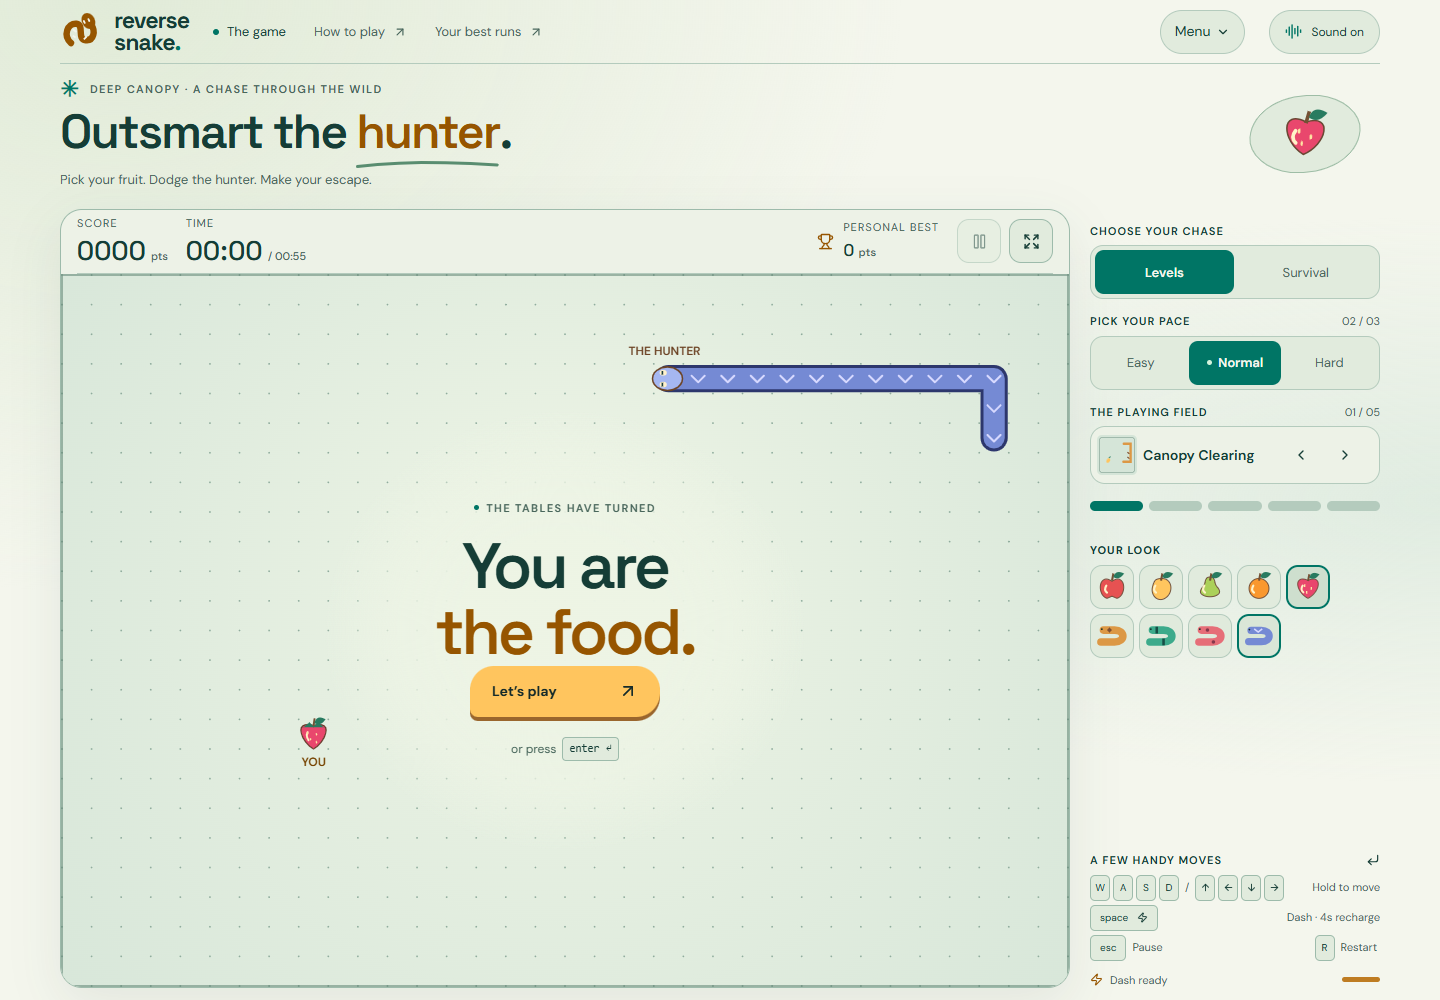
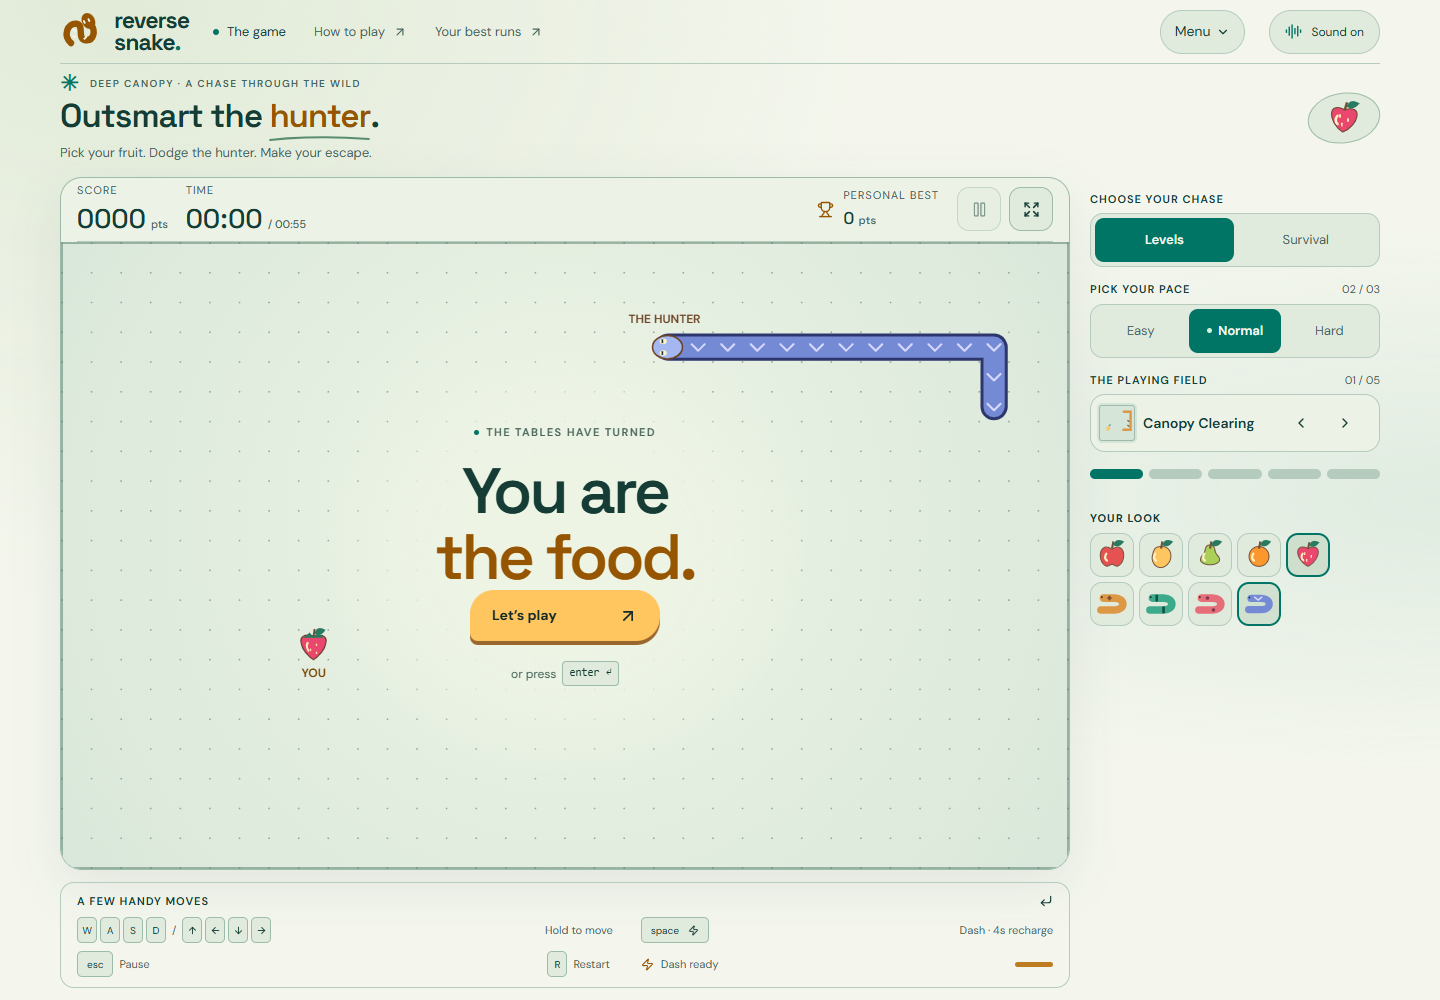
Place keyboard guide beneath the map and compact the hero

diff --git a/web/src/components/reverse-snake.tsx b/web/src/components/reverse-snake.tsx
@@ -121,12 +121,13 @@ export default function ReverseSnake() {
     </header>
 
     <main className="site-main">
-      <section className="hero" aria-labelledby="hero-title">
+      <section className="hero game-hero" aria-labelledby="hero-title">
         <div><div className="hero-eyebrow"><span className="little-star">✳</span> DEEP CANOPY · A CHASE THROUGH THE WILD</div><h1 id="hero-title">Outsmart the <span>hunter<svg viewBox="0 0 290 14" fill="none" aria-hidden="true"><path d="M3 10C77 1 184 0 286 7" stroke="currentColor" strokeWidth="6" strokeLinecap="round"/></svg></span>.</h1><p>Pick your fruit. Dodge the hunter. Make your escape.</p></div>
         <div className="hero-sticker" aria-hidden="true"><FruitIcon skin={game.appearance.fruit}/></div>
       </section>
 
       <div className="play-layout" id="play">
+        <div className="game-column">
         <section className="arcade" ref={arcadeRef} aria-label="Reverse Snake arcade">
           <div className="game-hud">
             <div className="hud-stat"><span>SCORE</span><strong>{Math.floor(game.score).toString().padStart(4, "0")}<small>pts</small></strong></div>
@@ -158,13 +159,15 @@ export default function ReverseSnake() {
           <div className="touch-controls" aria-label="Touch game controls"><div className="d-pad">{([['up', ArrowUp], ['left', ArrowLeft], ['down', ArrowDown], ['right', ArrowRight]] as const).map(([direction, Icon]) => <button key={direction} className={`direction-${direction}`} disabled={game.phase !== "running"} aria-label={`Move ${direction}`} onPointerDown={event => { event.preventDefault(); event.currentTarget.setPointerCapture(event.pointerId); pressInput(`pointer:${event.pointerId}`, direction); focusGame(); }} onPointerUp={event => releaseInput(`pointer:${event.pointerId}`)} onPointerCancel={event => releaseInput(`pointer:${event.pointerId}`, true)} onLostPointerCapture={event => releaseInput(`pointer:${event.pointerId}`, true)} onClick={event => { if (event.detail === 0) { steer(direction); directionRef.current = input.current.direction; focusGame(); } }}><Icon size={20}/></button>)}</div><button className="touch-dash" disabled={game.phase !== "running" || game.dashCooldown > 0} onClick={() => { dash(); focusGame(); }}><Zap size={20}/>{game.dashCooldown > 0 ? `${(game.dashCooldown / 1000).toFixed(1)}s` : "Dash"}</button></div>
         </section>
 
-        <aside className="game-sidebar" aria-label="Game setup and controls">
+          <section className="controls-section" aria-label="Keyboard controls"><div className="section-label"><h3>A FEW HANDY MOVES</h3><CornerDownLeft size={14}/></div><div className="control-row"><div className="key-group"><kbd>W</kbd><kbd>A</kbd><kbd>S</kbd><kbd>D</kbd><span>/</span><kbd><ArrowUp size={11}/></kbd><kbd><ArrowLeft size={11}/></kbd><kbd><ArrowDown size={11}/></kbd><kbd><ArrowRight size={11}/></kbd></div><span>Hold to move</span></div><div className="control-row"><kbd className="wide-key">space <Zap size={11}/></kbd><span>Dash <small>· 4s recharge</small></span></div><div className="control-row"><div className="key-group"><kbd className="wide-key">esc</kbd><span>Pause</span></div><div className="key-group"><kbd>R</kbd><span>Restart</span></div></div><div className={`dash-meter ${game.dashCooldown === 0 ? "charged" : ""}`}><Zap size={13}/><span>{game.dashCooldown === 0 ? "Dash ready" : "Recharging"}</span><div><i style={{ width: `${100 - (game.dashCooldown / DASH_COOLDOWN) * 100}%` }}/></div></div></section>
+        </div>
+
+        <aside className="game-sidebar" aria-label="Game setup">
           <section className="mission-card"><div className="eyebrow"><span className="mini-cross">+</span> YOUR ONE JOB</div><h2>Be the one<br/>that got away.</h2><p>{game.mode === "survival" ? "Stay alive as long as you can. Every crash brings a fresh hunter. There’s always another chase." : "Bait the snake into a wall or its own tail. Outsmart it, or outlast its appetite."}</p><div className="mission-rule"><span className="apple-dot"/>You’re the fruit.<span className="snake-dot"/>It’s the problem.</div><ArrowDownLeft className="mission-arrow" size={36} strokeWidth={1.2}/></section>
           <section className="mode-section"><div className="section-label"><h3>CHOOSE YOUR CHASE</h3></div><div className="difficulty-options" aria-label="Game mode"><button disabled={active} aria-pressed={game.mode === "levels"} onClick={() => configure(game.arena, game.difficulty, "levels")}>Levels</button><button disabled={active} aria-pressed={game.mode === "survival"} onClick={() => configure(game.arena, game.difficulty, "survival")}>Survival</button></div></section>
           <section className="difficulty-section"><div className="section-label"><h3>PICK YOUR PACE</h3><span>0{(['easy', 'normal', 'hard'] as Difficulty[]).indexOf(game.difficulty) + 1} / 03</span></div><div className="difficulty-options" aria-label="Difficulty">{(Object.keys(DIFFICULTIES) as Difficulty[]).map(value => <button key={value} disabled={active} aria-pressed={game.difficulty === value} onClick={() => configure(game.arena, value)}>{game.difficulty === value && <span/>}{DIFFICULTIES[value].label}</button>)}</div></section>
           <section className="arena-section"><div className="section-label"><h3>THE PLAYING FIELD</h3><span>0{game.arena + 1} / 05</span></div><div className="arena-card"><GardenMap arena={game.arena}/><div><span>ARENA 0{game.arena + 1}</span><h4>{arena.name}</h4><p>{arena.subtitle}</p></div><div className="arena-arrows"><button aria-label="Previous arena" disabled={active} onClick={() => configure((game.arena + 4) % ARENAS.length, game.difficulty)}><ChevronLeft size={16}/></button><button aria-label="Next arena" disabled={active} onClick={() => configure((game.arena + 1) % ARENAS.length, game.difficulty)}><ChevronRight size={16}/></button></div></div><div className="arena-dots" aria-label="Choose arena">{ARENAS.map((item, index) => <button key={item.name} className={index === game.arena ? "selected" : ""} aria-label={`Choose ${item.name}`} aria-pressed={index === game.arena} disabled={active} onClick={() => configure(index, game.difficulty)}/>)}</div></section>
           <AppearancePicker value={game.appearance} disabled={active} onChange={appearance}/>
-          <section className="controls-section"><div className="section-label"><h3>A FEW HANDY MOVES</h3><CornerDownLeft size={14}/></div><div className="control-row"><div className="key-group"><kbd>W</kbd><kbd>A</kbd><kbd>S</kbd><kbd>D</kbd><span>/</span><kbd><ArrowUp size={11}/></kbd><kbd><ArrowLeft size={11}/></kbd><kbd><ArrowDown size={11}/></kbd><kbd><ArrowRight size={11}/></kbd></div><span>Hold to move</span></div><div className="control-row"><kbd className="wide-key">space <Zap size={11}/></kbd><span>Dash <small>· 4s recharge</small></span></div><div className="control-row"><div className="key-group"><kbd className="wide-key">esc</kbd><span>Pause</span></div><div className="key-group"><kbd>R</kbd><span>Restart</span></div></div><div className={`dash-meter ${game.dashCooldown === 0 ? "charged" : ""}`}><Zap size={13}/><span>{game.dashCooldown === 0 ? "Dash ready" : "Recharging"}</span><div><i style={{ width: `${100 - (game.dashCooldown / DASH_COOLDOWN) * 100}%` }}/></div></div></section>
         </aside>
       </div>
 

diff --git a/web/src/app/globals.css b/web/src/app/globals.css
@@ -557,3 +557,24 @@ body { height: 100dvh; display: flex; flex-direction: column; padding: env(safe-
 }
 
 @media (max-height:500px) { .arena-section .section-label { display:none; } }
+
+.game-hero { padding:8px 0 12px;gap:16px; }
+.game-hero h1 { font-size:clamp(26px,2.3vw,34px);letter-spacing:-1px; }
+.game-hero h1 > span > svg { height:6px;bottom:-5px; }
+.game-hero .hero-eyebrow { font-size:10px;margin-bottom:4px; }
+.game-hero p { margin-top:8px; }
+.game-hero .hero-sticker { width:72px;height:52px;margin-right:0; }
+.game-hero .hero-sticker > svg { width:40px;height:40px; }
+.game-column { display:flex;flex-direction:column;gap:12px;min-width:0;min-height:0; }
+.game-column > .arcade { flex:1; }
+.game-column > .controls-section { display:grid;grid-template-columns:minmax(0,1.3fr) minmax(0,1fr);gap:8px 28px;flex-shrink:0;margin:0;padding:10px 16px;border:1px solid var(--line);border-radius:14px; }
+.game-column > .controls-section .section-label { grid-column:1 / -1;margin:0; }
+.game-column > .controls-section .control-row { margin:0; }
+.game-column > .controls-section .dash-meter { padding:0; }
+@media (max-width:900px) and (min-height:501px) {
+  .game-column { flex:1; }
+  .game-column > .controls-section { display:none; }
+  .game-hero { padding:4px 0 8px; }
+  .game-hero h1 { font-size:24px; }
+}
+@media (max-height:620px) { .game-column > .controls-section { display:none; } }

diff --git a/web/browser-tests/adaptive.spec.ts b/web/browser-tests/adaptive.spec.ts
@@ -135,10 +135,10 @@ test("the outer rectangle is fully playable and fullscreen grows the board", asy
     }));
   const normal = await geometry();
   const control = (await page.locator(".controls-section").boundingBox())!,
-    sidebar = (await page.locator(".game-sidebar").boundingBox())!;
-  expect(
-    Math.abs(control.y + control.height - sidebar.y - sidebar.height),
-  ).toBeLessThan(2);
+    arcade = (await page.locator(".arcade").boundingBox())!;
+  expect(control.y).toBeGreaterThanOrEqual(arcade.y + arcade.height);
+  expect(control.x).toBeCloseTo(arcade.x, 0);
+  expect(control.width).toBeCloseTo(arcade.width, 0);
   await page.getByRole("button", { name: "Enter fullscreen" }).click();
   await expect
     .poll(async () => {

diff --git a/web/docs/CURRENT_STATE.md b/web/docs/CURRENT_STATE.md
@@ -4,7 +4,7 @@ Updated 14 November 2026 for version 1.2.0, ruleset `orchard-3`. This is the cur
 
 Reverse Snake is a fruit-neutral browser game in `web/`, built with Next.js 16.4.5, React 19.3.1, TypeScript, Node 24 and Canvas. Levels and Survival offer five arenas and Easy, Normal and Hard. Hunter lets the player control the snake against an evasive fruit. Three timed local Challenges and completed-run Replays are available on separate routes. Light is the default theme; the original dark palette remains selectable in the click/tap/keyboard Menu. Fruit offers Hunter and Hunter offers Fruit, omitting their own mode link.
 
-The playing field fills the entire outer board rectangle. Its rows and columns come from the available width and height, with a target cell size of 18–30 CSS pixels and bounds of 12–96 cells per axis. Fullscreen expands the playable area and increases its cell count. Terrain scales to each board while keeping adjacent wall cells connected. Live resize remaps the actors into legal, connected positions while preserving phase, elapsed time, score, boosts and learning. It is a recorded simulation action. The original 20-cell coordinates remain only as terrain templates and in the legacy replay engine. The sidebar places “A few handy moves” at its bottom on desktop; compact layouts keep setup and touch controls within one viewport.
+The playing field fills the entire outer board rectangle. Its rows and columns come from the available width and height, with a target cell size of 18–30 CSS pixels and bounds of 12–96 cells per axis. Fullscreen expands the playable area and increases its cell count. Terrain scales to each board while keeping adjacent wall cells connected. Live resize remaps the actors into legal, connected positions while preserving phase, elapsed time, score, boosts and learning. It is a recorded simulation action. The original 20-cell coordinates remain only as terrain templates and in the legacy replay engine. “A few handy moves” occupies a compact two-column panel directly beneath the desktop game frame, aligned with its width. The “Outsmart the hunter” heading, ornament and spacing are smaller. Compact layouts keep setup and touch controls within one viewport.
 
 Both opponents use genuine local neural behavior learning. Two small networks, each with 14 inputs, 12 tanh hidden units and four softmax outputs, train by backpropagation on successful human moves. Fruit movement in Escape/Challenges teaches the fruit policy; human-controlled snake movement in Hunter teaches the snake policy. The hunting snake predicts fruit turns and uses learned snake preferences in legal route selection. The evasive fruit combines learned fruit choices with a prediction of the player's snake movement. Easy, Normal and Hard use different anticipation thresholds, imitation strengths, commitment and movement cadences. Legal-move and route safeguards retain wall/body rules and the Wild Heart idle-capture regression. Learning is saved separately in `reverse-snake:learning:v1`, including on pause, completion and navigation. Failed storage retains the model for the current visit. More examples change predictions; this is behavior imitation, not a guarantee that every player's habits improve the opponent.
 

diff --git a/web/docs/TECHNICAL_DECISIONS.md b/web/docs/TECHNICAL_DECISIONS.md
@@ -5,7 +5,7 @@
 3. Implement two deterministic neural classifiers with online supervised behavior imitation. This small local network needs no server, pretrained model or TensorFlow dependency. Actual successful human moves update bounded weights by backpropagation; inference affects both hunting and evasion. Difficulty changes anticipation confidence/cadence and imitation influence as well as existing speed/commitment. This is not reinforcement learning or a promise of monotonically better play.
 4. Store learning and cosmetics separately from existing scores. Save learned state periodically and on pause, outcome and navigation, retaining the in-memory model if storage fails. Score records omit weights. Replay snapshots carry initial weights and record every resize/input so deterministic playback includes training. Preserve the old engine only for legacy format-1 playback; new matches use the current engine.
 5. Use shared code-native fruit artwork and four distinctive snake patterns. Render a ghost to a transparent intermediate sprite and composite once at 32% opacity, preventing overlapping leaf/body draws from accumulating beyond that opacity. A separate recorded cursor animates the pause background; it cannot mutate the frozen live state. Respect reduced motion.
-6. Allocate viewport space with flex/grid. Canvas fills the outer rectangle and uses independent row/column counts. The desktop controls section is bottom-aligned. Short screens retain selectable setup, accessible menus and 44 px touch controls. Dialogs and narrow skin rows may scroll internally.
+6. Allocate viewport space with flex/grid. Canvas fills the outer rectangle and uses independent row/column counts. A flex column groups the desktop game frame with its keyboard guide directly underneath; setup stays in the adjacent sidebar. The main hero uses smaller typography and spacing. Short screens retain selectable setup, accessible menus and 44 px touch controls. Dialogs and narrow skin rows may scroll internally.
 7. Preserve default light and the original dark theme with the click/tap/keyboard Menu. The main Fruit route and Hunter route omit their own mode links. Theme changes redraw presentation and never advance live paused state, even while an independent paused preview is playing.
 8. Retain Canvas pending evidence of a concrete benefit from Phaser. Online accounts/leaderboards, an editor schema and native Android packaging require separate product/device/backend work and are outside this update. The older ML deferral is superseded by the explicit learning requirement implemented here.
 9. Preserve historical Python/native reference files and `PROJECT_STATUS.md`. Keep third-party font/icon notices and the scoped minimatch security override. No project-wide licence is inferred for the owner.

diff --git a/web/docs/VISUAL_DIRECTION.md b/web/docs/VISUAL_DIRECTION.md
@@ -4,7 +4,7 @@ Light remains the default pale ivory/mint canopy with deep teal ink and amber ac
 
 The game identity is fruit-neutral. Apple/Jade are the fresh defaults, with Mango, Pear, Orange and Strawberry skins and Amber, Jade, Coral and Midnight snakes available before every match. Each fruit has full artwork, and snakes use diamonds, bands, spots or chevrons with distinct colors. The hero ornament uses the selected fruit without a promotional caption. Skin selection persists and is disabled during active/paused rounds.
 
-Canvas fills the entire outer board rectangle. Flexible columns/rows keep cell proportions close to square across wide, tall and fullscreen layouts; fullscreen adds actual playable cells. Terrain fills that geometry rather than sitting inside a centered fixed-size square. The main board keeps score/time, pause/fullscreen and boost feedback. Previously removed tracking badges, side slogans and footer/setup captions remain absent. “A few handy moves” sits at the sidebar bottom on desktop; compact screen layouts retain setup and touch controls.
+Canvas fills the entire outer board rectangle. Flexible columns/rows keep cell proportions close to square across wide, tall and fullscreen layouts; fullscreen adds actual playable cells. Terrain fills that geometry rather than sitting inside a centered fixed-size square. The main board keeps score/time, pause/fullscreen and boost feedback. Previously removed tracking badges, side slogans and footer/setup captions remain absent. “A few handy moves” is a compact two-column panel directly below the desktop game frame, matching its width; setup remains in the sidebar. The main hero uses a 26–34 px heading, a smaller fruit ornament and less padding, with a 24 px heading on compact portrait layouts. Compact screens retain setup and touch controls instead of the keyboard guide.
 
 Matching ghosts use their recorded full fruit artwork composited once at 32% opacity. The pause overlay is translucent and applies a 6 px backdrop blur; the user's last recorded fruit-and-snake match loops behind it through a separate cursor. Live gameplay stays frozen. With no earlier history, the current prefix is used. Reduced-motion preference suppresses that playback and moving boost effects while retaining state feedback.
 

diff --git a/web/docs/RELEASE.md b/web/docs/RELEASE.md
@@ -1,5 +1,9 @@
 # Release evidence
 
+## Controls beneath the map — 14 November 2026
+
+“A few handy moves” now sits directly below the desktop game frame in a compact panel of matching width. The sidebar contains setup, and the “Outsmart the hunter” heading, fruit ornament and padding are smaller. Responsive touch layouts and the flexible fullscreen board are retained. Build, lint, types and 21 targeted browser checks pass; updated screenshots and current product reports accompany the change. This update builds on main `91d55fb752a9c904c72516d9deaf751d7e644754`. Main delivery remains authorized; hosted Preview/production verification remains NOT VERIFIED under the existing user waiver.
+
 ## Adaptive browser release 1.2.0 — 14 November 2026
 
 This release replaces the fixed square playfield with full outer-rectangle geometry and a larger fullscreen board, adds local trainable fruit/snake opponents, bottom-aligned desktop controls, full fruit ghosts at 32% opacity, independent recorded gameplay behind translucent blurred pause, and five fruit/four snake appearances selected before matches. Apple/Jade are the fresh defaults; the presentation is fruit-neutral. Old scores and canopy-2 replay playback are retained. New recordings capture geometry, cosmetics, initial neural snapshots and resize commands.

diff --git a/web/docs/VERIFICATION.md b/web/docs/VERIFICATION.md
@@ -1,5 +1,9 @@
 # Verification
 
+## Controls beneath the map — 14 November 2026
+
+Production build, ESLint and TypeScript pass. The 21 targeted Chrome browser checks pass: all twelve main-game viewport sizes, guide placement below and aligned with the game frame, larger fullscreen geometry, both theme/menu palettes across all routes, text contrast, animated paused playback, and Wild Heart idle/chase regressions. The existing placement assertion now checks the game frame instead of the sidebar. Updated local desktop, phone, both-theme, pause and fullscreen screenshots were visually inspected. Gameplay rules and dependencies are unchanged; hosted Vercel verification remains NOT VERIFIED under the existing waiver.
+
 ## Adaptive browser release 1.2.0 — 14 November 2026
 
 Final local production verification with Node 24 and installed Chrome passes **54 rules tests**, **53 browser tests** and one explicitly documented headless tab-visibility skip. ESLint, TypeScript, production build and the full dependency audit pass; audit reports zero vulnerabilities. The lockfile version changes to 1.2.0 without adding an ML/runtime dependency.

diff --git a/web/docs/PRIORITISED_WORK.md b/web/docs/PRIORITISED_WORK.md
@@ -14,4 +14,4 @@ The complete-build specification supplied on 14 November governs scope. Existing
 | External | Human balance and physical-device validation | Checklist prepared. No invented tester or phone results; pending genuine access. |
 | Conditional | Phaser / online / editor / Android | Deferred for the concrete reasons in TECHNICAL_DECISIONS.md. No speculative infrastructure. |
 
-The explicit adaptive-gameplay request is implemented: flexible boards, both neural policies, bottom-aligned desktop controls, full fruit ghosts, animated blurred pause and selectable fruit/snake skins. Score multipliers remain unchanged. Adaptive balance remains a subject for real playtesting.
+The explicit adaptive-gameplay request is implemented: flexible boards, both neural policies, desktop controls directly beneath the game frame, full fruit ghosts, animated blurred pause and selectable fruit/snake skins. The main hero heading and spacing are reduced. Score multipliers remain unchanged. Adaptive balance remains a subject for real playtesting.
